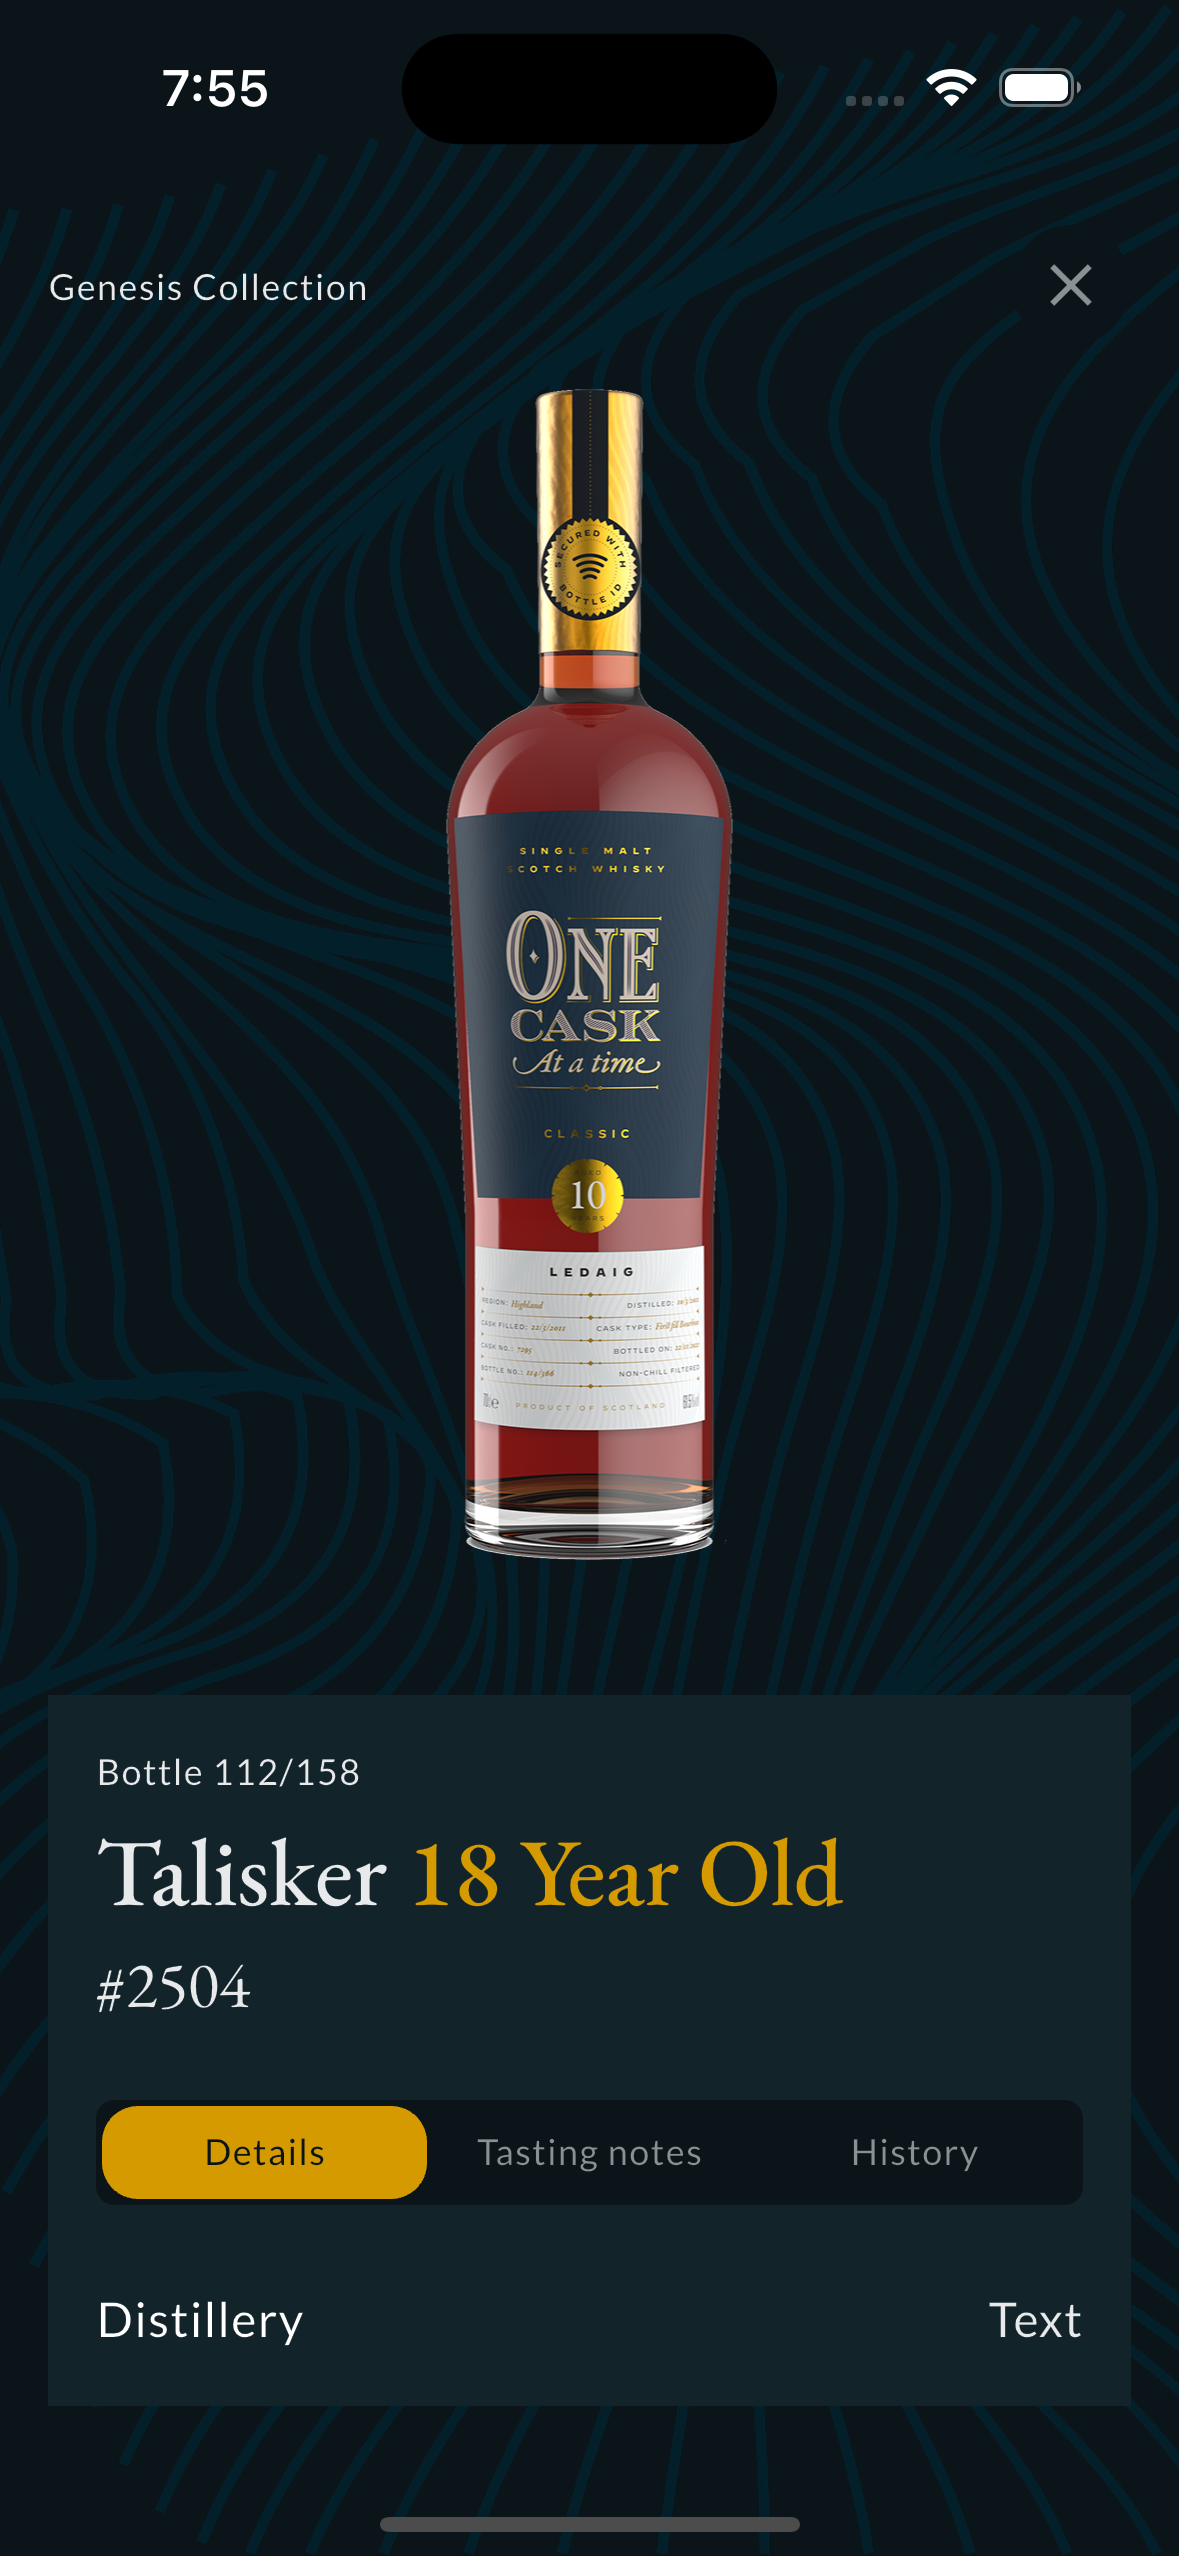
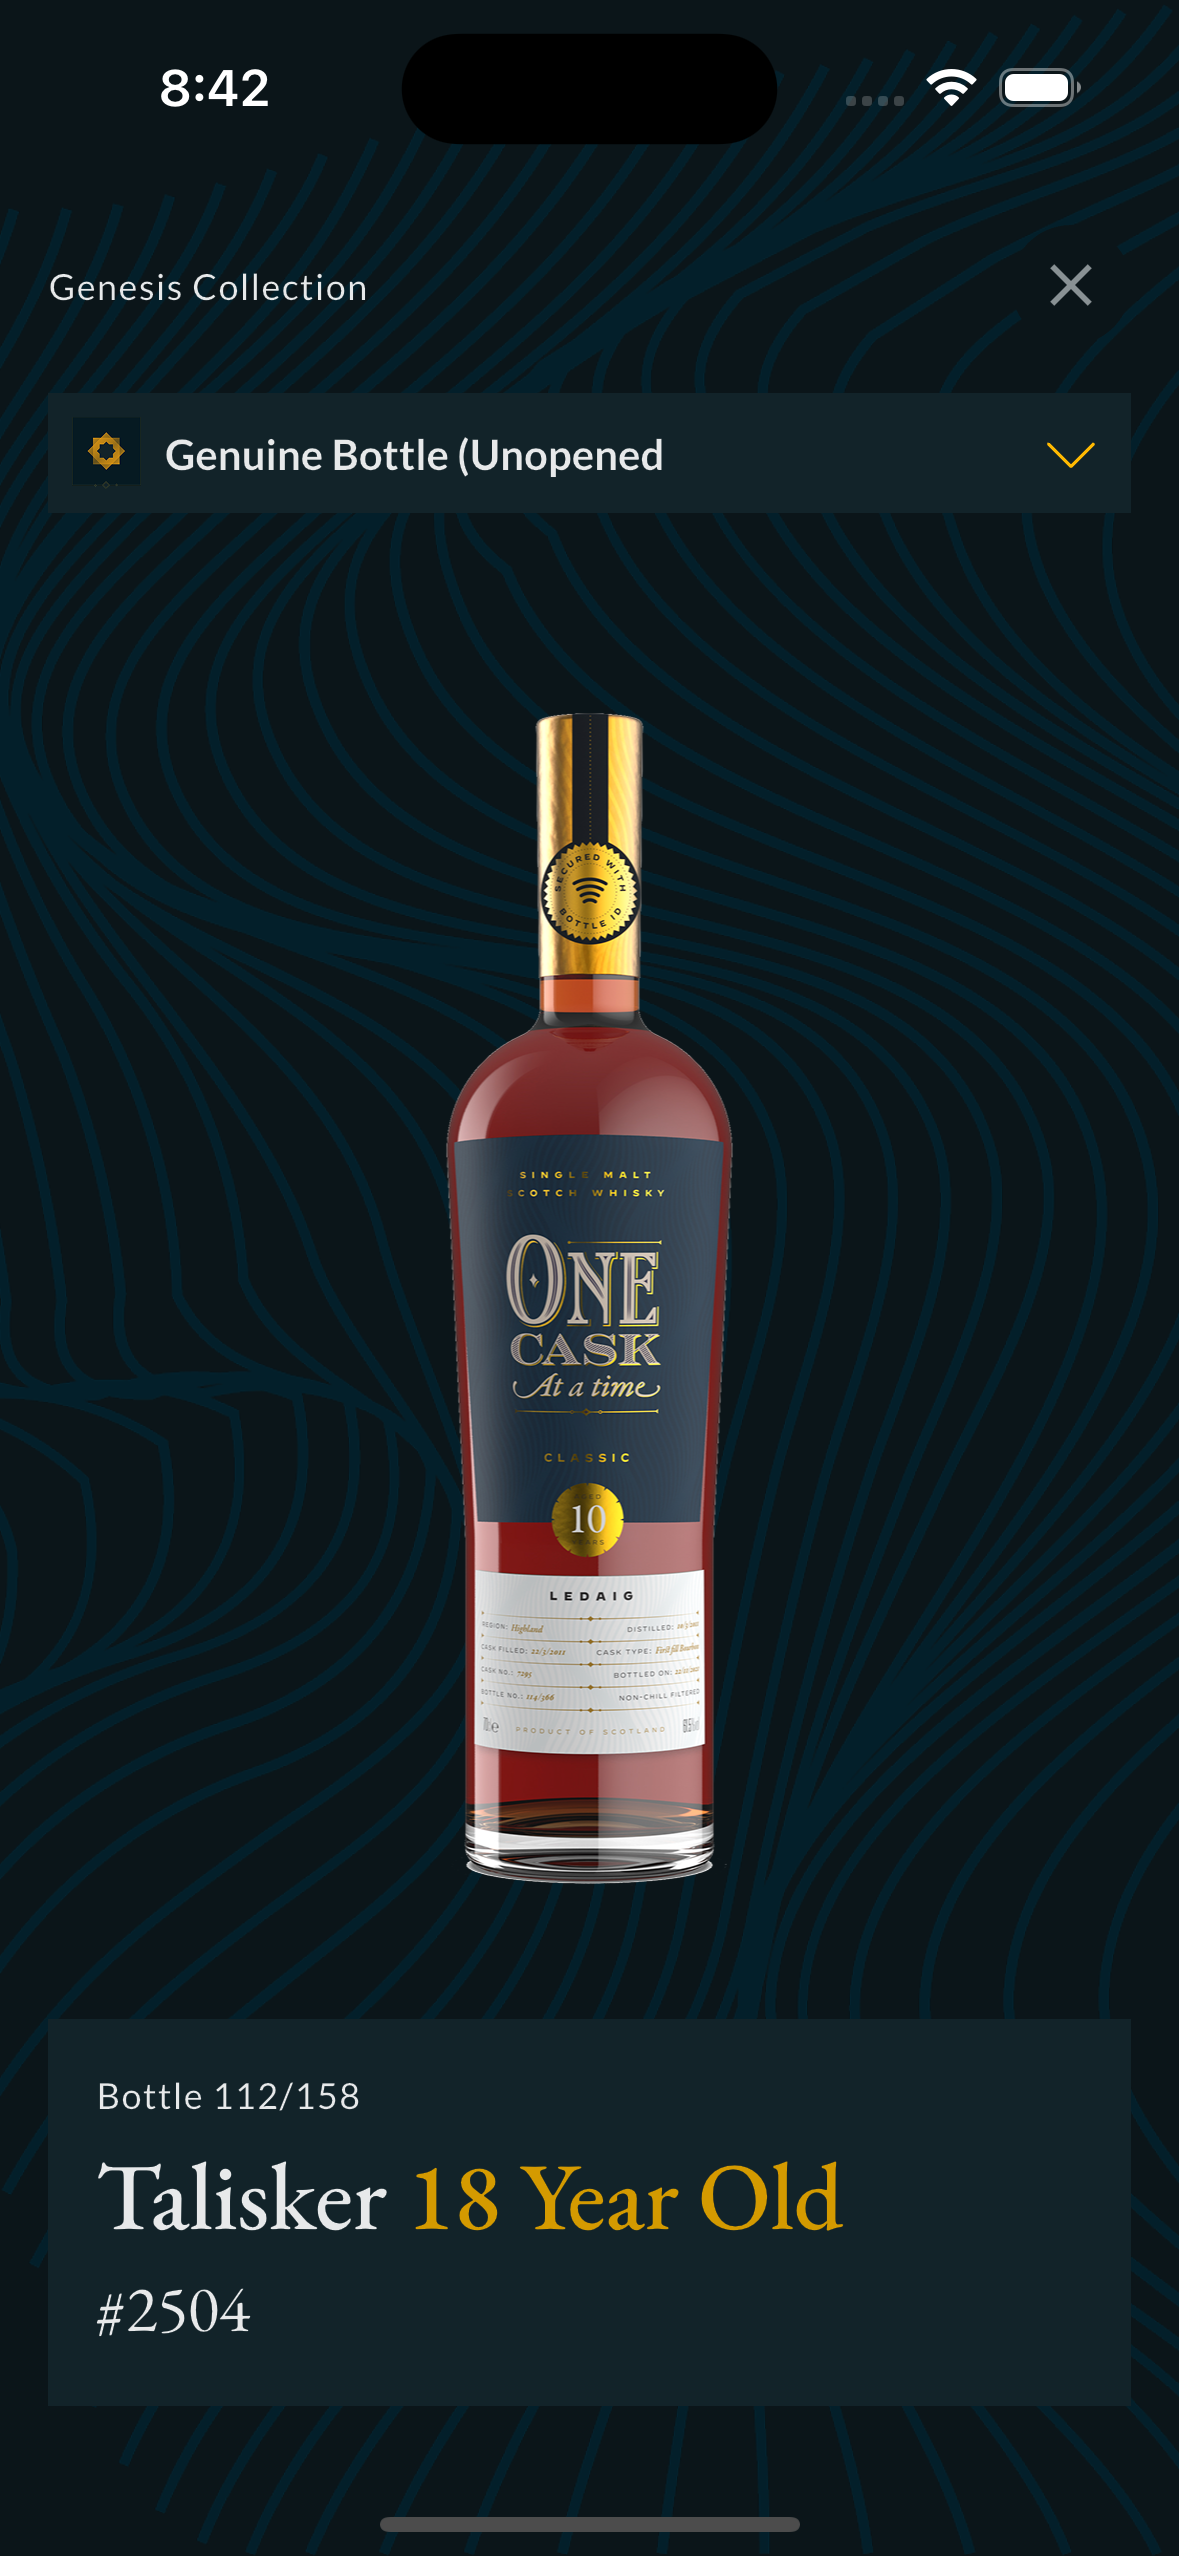
detail update

diff --git a/lib/features/collection/presentation/screens/bottle_detail_screen.dart b/lib/features/collection/presentation/screens/bottle_detail_screen.dart
@@ -8,6 +8,8 @@ import 'package:pixelfield/features/collection/presentation/widgets/details.dart
 import 'package:pixelfield/features/collection/presentation/widgets/history.dart';
 import 'package:pixelfield/features/collection/presentation/widgets/tasting_notes.dart';
 
+import '../../../../common/utils/svg_render_widget.dart';
+
 class BottleDetailScreen extends StatefulWidget {
   final Bottle bottleDetails;
   const BottleDetailScreen({super.key, required this.bottleDetails});
@@ -55,6 +57,32 @@ class _BottleDetailScreenState extends State<BottleDetailScreen> {
                     )
                   ],
                 ),
+                Container(
+                  height: 40,
+                  margin: const EdgeInsets.only(top: 16, bottom: 52),
+                  padding: const EdgeInsets.all(8),
+                  decoration: BoxDecoration(
+                      color: context.themeData.scaffoldBackgroundColor),
+                  child: Row(
+                    mainAxisAlignment: MainAxisAlignment.spaceBetween,
+                    children: [
+                      Row(
+                        children: [
+                          Image.asset(PixelFieldStrings.genuineIcon),
+                          const XMargin(8),
+                          Text(
+                            "Genuine Bottle (Unopened",
+                            style: context.textTheme.displaySmall
+                                ?.copyWith(fontSize: 14),
+                          )
+                        ],
+                      ),
+                      SvgRenderWidget(
+                        svgPath: PixelFieldStrings.arrowDown,
+                      )
+                    ],
+                  ),
+                ),
                 Column(
                   children: [
                     Image.asset(widget.bottleDetails.image ?? ""),
@@ -73,19 +101,15 @@ class _BottleDetailScreenState extends State<BottleDetailScreen> {
                                 ?.copyWith(fontSize: 12),
                           ),
                           Padding(
-                            padding:
-                                const EdgeInsets.symmetric(vertical: 7),
+                            padding: const EdgeInsets.symmetric(vertical: 7),
                             child: Text.rich(
                               TextSpan(
                                 text: widget.bottleDetails.name ?? "",
-                                style: context.textTheme.displayLarge
-                                    ?.copyWith(
-                                        fontSize: 32,
-                                        fontWeight: FontWeight.w500),
+                                style: context.textTheme.displayLarge?.copyWith(
+                                    fontSize: 32, fontWeight: FontWeight.w500),
                                 children: [
                                   TextSpan(
-                                    text:
-                                        " ${widget.bottleDetails.age ?? ""}",
+                                    text: " ${widget.bottleDetails.age ?? ""}",
                                     style: context.textTheme.displayLarge
                                         ?.copyWith(
                                             fontSize: 32,
@@ -113,21 +137,18 @@ class _BottleDetailScreenState extends State<BottleDetailScreen> {
                                     padding: const EdgeInsets.all(2),
                                     height: 35,
                                     decoration: BoxDecoration(
-                                      borderRadius:
-                                          BorderRadius.circular(6),
+                                      borderRadius: BorderRadius.circular(6),
                                       color: context.primaryColor,
                                     ),
                                     child: TabBar(
-                                      indicatorSize:
-                                          TabBarIndicatorSize.tab,
+                                      indicatorSize: TabBarIndicatorSize.tab,
                                       dividerColor: Colors.transparent,
                                       indicator: BoxDecoration(
                                           borderRadius:
                                               BorderRadius.circular(12),
                                           color: context.secondaryColor),
                                       labelColor: context.primaryColor,
-                                      labelStyle: context
-                                          .textTheme.bodyLarge
+                                      labelStyle: context.textTheme.bodyLarge
                                           ?.copyWith(fontSize: 12),
                                       unselectedLabelStyle: context
                                           .textTheme.bodyLarge
@@ -147,8 +168,8 @@ class _BottleDetailScreenState extends State<BottleDetailScreen> {
                                           const NeverScrollableScrollPhysics(),
                                       children: [
                                         DetailsWidget(
-                                            details: widget
-                                                .bottleDetails.details!),
+                                            details:
+                                                widget.bottleDetails.details!),
                                         const TastingNotesWidget(),
                                         const HistoryWidget(),
                                       ],

diff --git a/lib/common/utils/pixelfield_strings.dart b/lib/common/utils/pixelfield_strings.dart
@@ -10,4 +10,5 @@ class PixelFieldStrings {
   static String scan = "assets/images/svgs/Scan.svg";
   static String squaresFour = "assets/images/svgs/SquaresFour.svg";
   static String notification = "assets/images/svgs/notification.svg";
+  static String genuineIcon = "assets/images/genuine-icon.png";
 }
